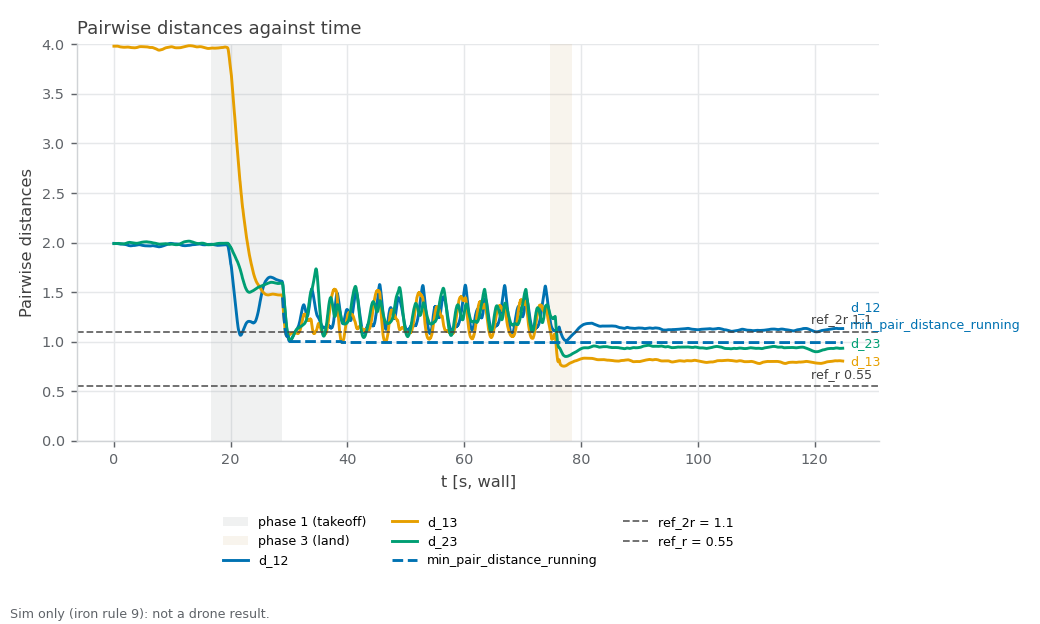
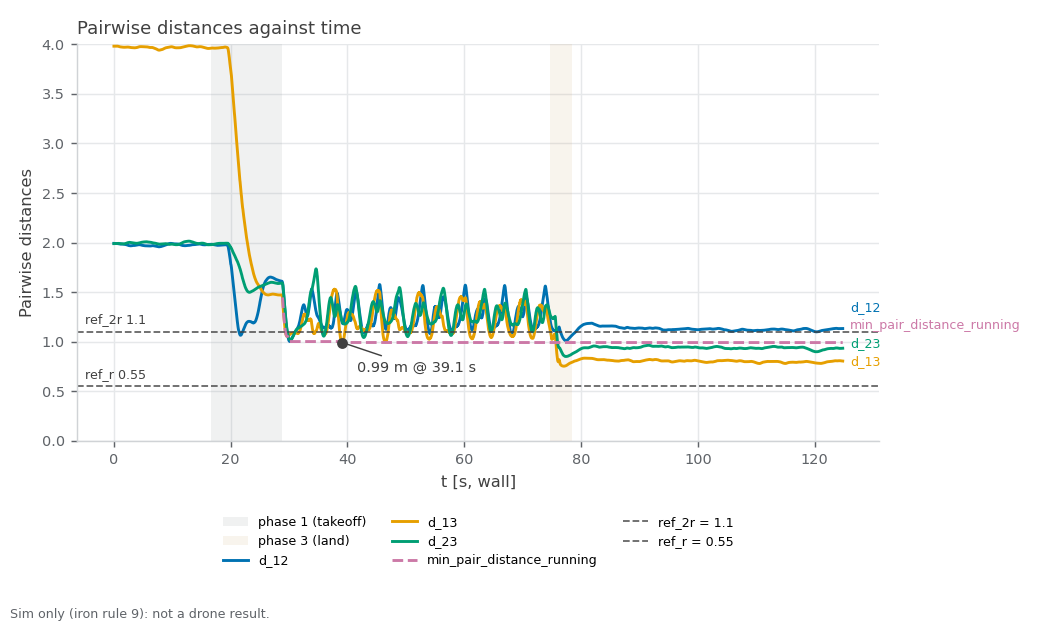
HTX-R1/S5 NEAR-787: flight-test reading in the dry1 record and results block; Figure 3 marks the closest approach

diff --git a/docs/record/sim_crossing_dry1_record.md b/docs/record/sim_crossing_dry1_record.md
@@ -26,13 +26,13 @@ RECORD · SIM — sim_crossing_dry1. Sim-only (iron rule 9): none of these value
 | Isaac launch: no 'Unknown model' | no 'Unknown model' | 0 | - | PASS |
 | Isaac launch: no PhysX cooking warnings | no PhysX cooking warnings | 0 | - | PASS |
 | Isaac launch: Starling2MaxConfig x3 | Starling2MaxConfig x3 (launcher print) | 6 | - | PASS |
-| min pairwise distance ≥ 1.10 m (2r) | ≥ 1.10 m, binary (live 40 Hz odometry, phase 2) | 0.99 m (margin -0.11 m to the gate; pair d_13 at t=39.1 s) | #4: 1.02 m (0.08 m inside, 10-19 asset, 3 m/s cap, no bag) | **FAIL** |
-| vs ledger #4 | informational (min distance − 1.02 m) | -0.03 m | #4: 1.02 m | info |
+| min pairwise distance ≥ 1.10 m (2r) | ≥ 1.10 m, binary (live 40 Hz odometry, phase 2) | `min_pair_distance`: 0.99 m (margin -0.11 m to the gate; pair `d_13` at t=39.1 s) | #4: 1.02 m (0.08 m inside, 10-19 asset, 3 m/s cap, no bag) | **FAIL** |
+| vs ledger #4 | informational (min distance − 1.02 m) | `min_pair_distance` − 1.02 m: -0.03 m | #4: 1.02 m | info |
 | emergency samples | 0 (5 Hz status string) | 0 CSV rows flagged (≈ 8 per 5 Hz status sample) | - | PASS |
 | fence-breach samples | 0 (5 Hz status string) | 0 CSV rows flagged (≈ 8 per 5 Hz status sample) | - | PASS |
 | CBF active on ≥ 1 drone at least once | /svg/cbf_active names ≥ 1 drone at least once (20 Hz) | drone_1, drone_2, drone_3 seen; 88.5 s active (any drone) | - | PASS |
-| far goal reached per drone | closest approach ≤ 0.40 m (commander arrival radius; spec draft said 0.3 m) | drone_1 0.23 m; drone_2 0.28 m; drone_3 0.14 m | - | PASS |
-| peak speed ≤ 4.2 m/s | ≤ 4.2 m/s (cap 4.0 + 5 %), over every row including takeoff and landing (conservative) | 1.04 m/s (drone_1 1.01, drone_2 1.02, drone_3 1.04) | - | PASS |
+| far goal reached per drone | closest approach ≤ 0.40 m (commander arrival radius; spec draft said 0.3 m) | `goal_dist_drone_1..3`: drone_1 0.23 m; drone_2 0.28 m; drone_3 0.14 m | - | PASS |
+| peak speed ≤ 4.2 m/s | ≤ 4.2 m/s (cap 4.0 + 5 %), over every row including takeoff and landing (conservative) | `speed_drone_1..3`: 1.04 m/s (drone_1 1.01, drone_2 1.02, drone_3 1.04) | - | PASS |
 | landed, disarmed ×3 (commander ACK) | informational (ACK log, not an arming display) | drone_1, drone_2, drone_3 | - | info |
 | post-flight armed=false x3 (MAVROS state) | armed: false for drone_1, drone_2, drone_3 | drone_1 false, drone_2 false, drone_3 false | - | PASS |
 | live vs bag recompute | live metrics.csv agrees with the rosbag recompute (minimum distance within tolerance; flags by count) | d_12 Δmax 0.003462 (tol 0.02); d_13 Δmax 0 (tol 0.02); d_23 Δmax 0.009708 (tol 0.02); min_pair_distance Δmax 0.003462 (tol 0.02); speed_drone_1 Δmax 0 (tol 0.1); speed_drone_2 Δmax 0.000857 (tol 0.1); speed_drone_3 Δmax 0 (tol 0.1); cbf_drone_1 Σ 3694 vs 3694; cbf_drone_2 Σ 3634 vs 3634; cbf_drone_3 Σ 3604 vs 3604; emergency Σ 0 vs 0; fence_breached Σ 0 vs 0; fence_margin Δmax 0 (tol 0.02); goal_dist_drone_1 Δmax 0 (tol 0.05); goal_dist_drone_2 Δmax 0.006801 (tol 0.05); goal_dist_drone_3 Δmax 0 (tol 0.05); min_pair_distance_running Δmax 0 (tol 0.02); unpaired 0.0 % | - | PASS |
@@ -131,6 +131,11 @@ Live vs bag recompute:
 ## Caveats
 
 - The 45 s window is wall-clock; PX4 lockstep runs about 1.3× faster than the wall clock, so it is about 34 s of vehicle time (the duration is not a gate).
+- Reading for the flight-test decision. The drones start on a line at 2 m spacing (d_12 = 2, d_13 = 4, d_23 = 2) and their antipodal goals send all three through the same middle region at once.
+- Peak speed was 1.04 m/s against the 2.0 m/s scenario speed because the CBF was active for 88.5 s of the run, so the ≤ 4.2 m/s gate passed on a quantity this scenario cannot produce.
+- The closest pair sat under 1.10 m for 28 % of the crossing, in a limit cycle of about 3.5 s between about 1.0 and 1.5 m: the filter holds the pairs near its boundary, it did not slip once. The margin to the 0.55 m radius stayed above 0.4 m (no contact).
+- After landing started, d_13 dropped to about 0.76 m and the landed drones sit about 0.8 m apart; no gate sees this.
+- Options for the owner: a larger arena or goal radius, a different gate, or recording this result as the acceptance.
 
 ## Ledger row draft (docs/record/LEDGER.md table 1, #20, NEAR-787)
 

diff --git a/docs/projects/HTX-R1.md b/docs/projects/HTX-R1.md
@@ -64,7 +64,7 @@ Linear (snapshot 2026-10-26): 4 % · last ledger row #20 (2026-10-29)
 | Issue | Title (Linear, verbatim) | Result | Evidence |
 |---|---|---|---|
 | NEAR-786 | Re-run hover and 1 m step test on the updated sim drone | PASS ×2 — x 0.095 m / 2.47 s, 2026-10-29 | [#18, #19](../record/LEDGER.md) → [run3 record](../record/sim_hover_step_run3_record.md) |
-| NEAR-787 | Re-run three-drone crossing with collision avoidance and record it | FAIL — min 0.99 m vs 1.10 m gate, 2026-10-29 | [#20](../record/LEDGER.md) → [dry1 record](../record/sim_crossing_dry1_record.md); #4: 1.02 m |
+| NEAR-787 | Re-run three-drone crossing with collision avoidance and record it | FAIL — min 0.99 m, 2026-10-29 | [#20](../record/LEDGER.md) → [dry1 record](../record/sim_crossing_dry1_record.md); #4: 1.02 m |
 | NEAR-788 | Try live gain tuning from the panel in sim | — | — |
 | NEAR-789 | Set up one-drone gamepad teleop in the construction site (pad detected, sticks move the drone, release holds) | — | — |
 | NEAR-790 | Hand-fly drone_1 with cuVSLAM running, record and score the flight | — | — |
@@ -91,11 +91,11 @@ Reading [Figure 2](#fig-2): every step is inside the settle band within 2.5 s an
 ![x and z step responses, #17–#19 overlaid, PX4 vehicle time](../record/figures/s5_hover_step_overlay.png)
 *Figure 2. Step response of drone_1 to 1 m commands, x (left) and z (right), #17–#19 overlaid, PX4 time. Dotted: goal. Shaded: ±0.1 m band. Dashed: 3 s gate. Backward steps sign-flipped. `tools/make_figures.sh`; records [#17](../record/sim_hover_step_run1_record.md), [#18](../record/sim_hover_step_run2_record.md), [#19](../record/sim_hover_step_run3_record.md).*
 
-NEAR-787 — results (sim only; PX4's own sim state estimate positions the drones, flat world, camera and cuVSLAM not in the loop; gate 1.10 m = 2r, cbf_sim.yaml 2.0 / 4.0 m/s) — Min pairwise distance 0.99 m vs the 1.10 m gate (d_13 at t=39.1 s); ledger [#4](../record/LEDGER.md) measured 1.02 m on the old asset. Peak speed was 1.04 m/s against the 2.0 m/s scenario speed; the other gates passed (record). Reading [Figure 3](#fig-3): during the crossing the pairs swing between about 1.0 and 1.5 m, and the closest pair is under the 1.10 m line in 28 % of the window's samples, so the gate fails repeatedly, not by one spike.
+NEAR-787 — results (sim only; PX4's own sim state estimate positions the drones, flat world, camera and cuVSLAM not in the loop; gate 1.10 m = 2r, cbf_sim.yaml 2.0 / 4.0 m/s) — Min pairwise distance 0.99 m vs the 1.10 m gate (d_13 at t=39.1 s); ledger [#4](../record/LEDGER.md) measured 1.02 m on the old asset. Peak speed was 1.04 m/s against the 2.0 m/s scenario speed; the other gates passed (record). Reading [Figure 3](#fig-3): during the crossing the pairs swing between about 1.0 and 1.5 m, and the closest pair is under the 1.10 m line in 28 % of the window's samples, so the gate fails repeatedly, not by one spike. The drones start on a line and cross through one middle region together; the CBF was active 88.5 s, so peak speed was only 1.04 m/s and the speed gate passed on a quantity this scenario cannot produce. Landed drones end about 0.8 m apart, which no gate checks; options are a larger arena, a different gate or recording this result ([record](../record/sim_crossing_dry1_record.md#caveats)).
 
 <a id="fig-3"></a>
 ![pairwise distances of the three-drone crossing against the 1.10 m gate](../record/figures/s5_crossing_distances.png)
-*Figure 3. Pairwise distances d_12, d_13, d_23 and their running minimum against time, with the 1.10 m (2r) gate and 0.55 m (r) lines; shaded: takeoff and land. Live 40 Hz odometry, PX4 estimate. `tools/make_figures.sh`; record [#20](../record/sim_crossing_dry1_record.md).*
+*Figure 3. Pairwise distances d_12, d_13, d_23 and their running minimum against time (wall clock), with the 1.10 m (2r) gate and 0.55 m (r) lines and the closest approach marked; shaded: takeoff and land. Live 40 Hz odometry, PX4 estimate. `tools/make_figures.sh`; record [#20](../record/sim_crossing_dry1_record.md).*
 
 Open: nothing hand-flown yet — NEAR-789/790 count only with a video the owner has watched (2026-10-29). NEAR-787 FAIL needs a decision; windowed re-run: `tools/sim.sh test crossing --ledger 21 --issue NEAR-787 <run>` ([TEST_STANDARD](../TEST_STANDARD.md)).
 
